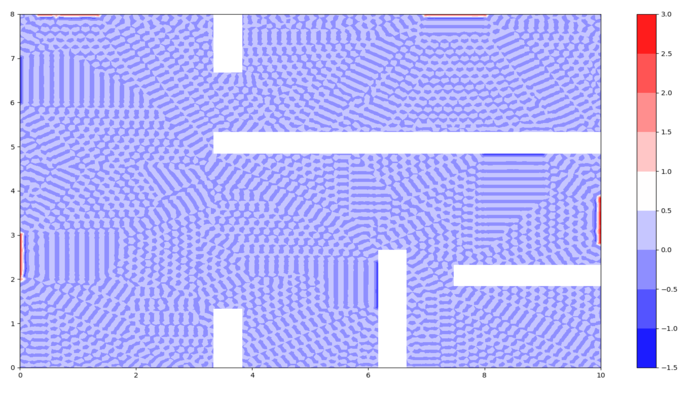
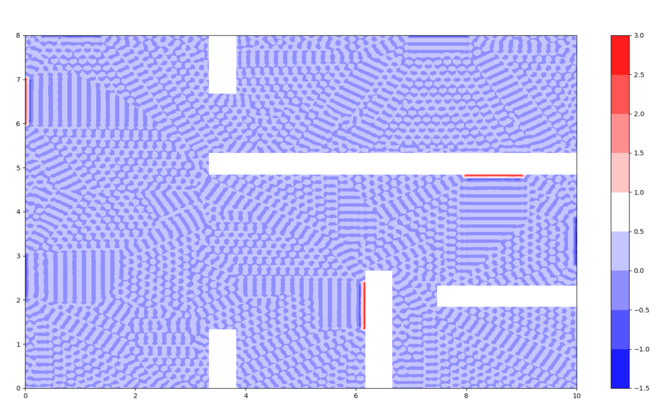
images

diff --git a/resolution.py b/resolution.py
@@ -12,8 +12,8 @@ from maillage import Point, Segment, Triangle, Mesh
 
 PIECE=1
 MUR=1
-RADIATEUR=2
-FENETRE=3
+FENETRE=2
+RADIATEUR=3
 
 def f(x,y):
     return 0
